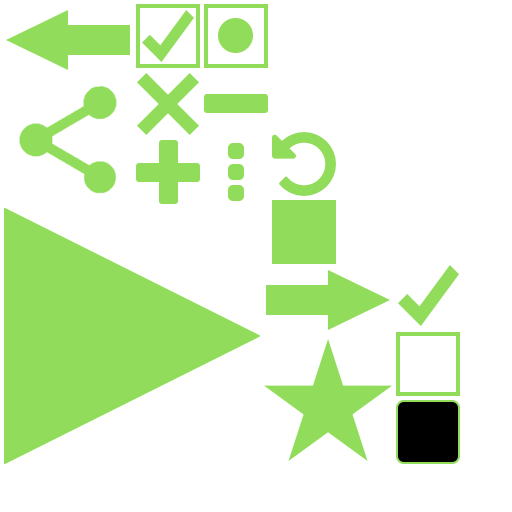
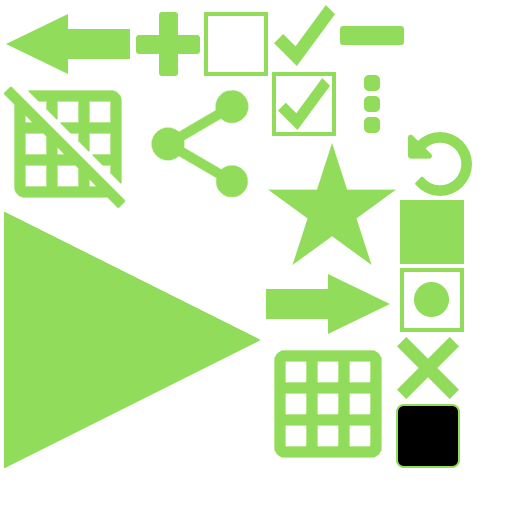
EditorScreen now also uses a hud stage. Added show grid button to EditorScreen and removed the setting from the settings screen.

diff --git a/core/src/com/mare5x/chargehockey/EditorScreen.java b/core/src/com/mare5x/chargehockey/EditorScreen.java
@@ -28,13 +28,15 @@ class EditorScreen implements Screen {
 
     private final InputMultiplexer multiplexer;
 
-    private final Stage edit_stage, button_stage;
+    private final Stage edit_stage, hud_stage;
     private final OrthographicCamera camera;  // camera of edit_stage
     private final EditCameraController camera_controller;
 
     private final LevelFrameBuffer fbo;
 
     private Level level;
+
+    private boolean show_grid = true;
 
     private final GridItemSelectorButton grid_item_button;
     private final Button puck_button;
@@ -75,7 +77,7 @@ class EditorScreen implements Screen {
             edit_stage.addActor(puck);
         }
 
-        button_stage = new Stage(new StretchViewport(Gdx.graphics.getWidth(), Gdx.graphics.getHeight() * 0.2f), game.batch);
+        hud_stage = new Stage(new StretchViewport(Gdx.graphics.getWidth(), Gdx.graphics.getHeight()), game.batch);
 
         Button menu_button = new Button(game.skin, "menu");
         menu_button.addListener(new ClickListener() {
@@ -96,20 +98,40 @@ class EditorScreen implements Screen {
         });
         grid_item_button.pad(10);
 
+        final Button show_grid_button = new Button(game.skin, "grid");
+        show_grid_button.addListener(new ClickListener() {
+            @Override
+            public void clicked(InputEvent event, float x, float y) {
+                show_grid = show_grid_button.isChecked();
+                fbo.set_draw_grid_lines(show_grid);
+                fbo.set_grid_line_spacing(CameraController.get_grid_line_spacing(camera.zoom));
+                fbo.update(game.batch);
+            }
+        });
+        show_grid = LevelFrameBuffer.get_grid_lines_setting();
+        show_grid_button.setChecked(show_grid);
+        show_grid_button.pad(10);
+
         puck_button = new Button();
         TextureRegionDrawable puck_drawable_on = new TextureRegionDrawable(game.sprites.findRegion("puck"));
         Drawable puck_drawable_off = puck_drawable_on.tint(game.skin.getColor("grey"));
         puck_button.setStyle(new Button.ButtonStyle(puck_drawable_off, puck_drawable_off, puck_drawable_on));
         puck_button.pad(10);
 
+        Table hud_table = new Table();
+        hud_table.setFillParent(true);
+
         Table button_table = new Table();
-        button_table.setFillParent(true);
         button_table.setBackground(game.skin.getDrawable("pixels/px_black"));
         button_table.add(grid_item_button).pad(15).size(Value.percentHeight(0.6f, button_table)).uniform();
         button_table.add(puck_button).pad(15).fill().uniform();
-        button_table.add(menu_button).pad(15).size(Value.percentHeight(0.6f, button_table)).expandX().right().uniform();
+        button_table.add(show_grid_button).pad(15).fill().uniform();
 
-        button_stage.addActor(button_table);
+        hud_table.add(menu_button).pad(15).expandX().right().size(Value.percentWidth(0.15f, hud_table)).row();
+        hud_table.add().expand().fill().row();
+        hud_table.add(button_table).height(Value.percentHeight(0.2f, hud_table)).expandX().fill();
+
+        hud_stage.addActor(hud_table);
 
         camera_controller = new EditCameraController(camera);
         InputAdapter back_key_processor = new InputAdapter() {  // same as menu_button
@@ -121,7 +143,7 @@ class EditorScreen implements Screen {
                 return true;
             }
         };
-        multiplexer = new InputMultiplexer(edit_stage, button_stage, new GestureDetector(camera_controller), back_key_processor);
+        multiplexer = new InputMultiplexer(edit_stage, hud_stage, new GestureDetector(camera_controller), back_key_processor);
     }
 
     @Override
@@ -148,16 +170,16 @@ class EditorScreen implements Screen {
         edit_stage.act();
         edit_stage.draw();
 
-        button_stage.getViewport().apply();
-        button_stage.act();
-        button_stage.draw();
+        hud_stage.getViewport().apply();
+        hud_stage.act();
+        hud_stage.draw();
     }
 
     @Override
     public void resize(int width, int height) {
         edit_stage.getViewport().setScreenBounds(0, (int) (height * 0.2f), width, (int) (height * 0.8f));
 
-        button_stage.getViewport().setScreenBounds(0, 0, width, (int) (height * 0.2f));
+        hud_stage.getViewport().setScreenBounds(0, 0, width, height);
 
         fbo.update(game.batch);
         Gdx.graphics.requestRendering();
@@ -166,6 +188,7 @@ class EditorScreen implements Screen {
     @Override
     public void pause() {
         level.save_level(puck_actors);
+        SettingsFile.set_setting(SETTINGS_KEY.GRID_LINES, show_grid);
     }
 
     @Override
@@ -177,6 +200,7 @@ class EditorScreen implements Screen {
     public void hide() {
 //        level.save_grid();
         level.save_level(puck_actors);
+        SettingsFile.set_setting(SETTINGS_KEY.GRID_LINES, show_grid);
         dispose();
     }
 
@@ -184,7 +208,7 @@ class EditorScreen implements Screen {
     public void dispose() {
         fbo.dispose();
         edit_stage.dispose();
-        button_stage.dispose();
+        hud_stage.dispose();
     }
 
     private class EditCameraController extends CameraController {

diff --git a/core/src/com/mare5x/chargehockey/SettingsScreen.java b/core/src/com/mare5x/chargehockey/SettingsScreen.java
@@ -29,7 +29,7 @@ class SettingsScreen implements Screen {
 
     private final SettingsFile settings_file;
 
-    private final SettingCheckBox acceleration_checkbox, velocity_checkbox, trace_path_checkbox, grid_checkbox;
+    private final SettingCheckBox acceleration_checkbox, velocity_checkbox, trace_path_checkbox;
     private final Slider game_speed_slider;
 
     SettingsScreen(final ChargeHockeyGame game, final Screen parent_screen) {
@@ -62,7 +62,6 @@ class SettingsScreen implements Screen {
         velocity_checkbox = new SettingCheckBox(game, "SHOW VELOCITY VECTOR", SETTINGS_KEY.SHOW_VELOCITY_VECTOR);
         acceleration_checkbox = new SettingCheckBox(game, "SHOW ACCELERATION VECTOR", SETTINGS_KEY.SHOW_ACCELERATION_VECTOR);
         trace_path_checkbox = new SettingCheckBox(game, "TRACE PATH?", SETTINGS_KEY.TRACE_PATH);
-        grid_checkbox = new SettingCheckBox(game, "SHOW GRID LINES?", SETTINGS_KEY.GRID_LINES);
 
         Table table = new Table();
         table.setFillParent(true);
@@ -79,7 +78,6 @@ class SettingsScreen implements Screen {
         velocity_checkbox.add_to_table(table);
         acceleration_checkbox.add_to_table(table);
         trace_path_checkbox.add_to_table(table);
-        grid_checkbox.add_to_table(table);
 
         table.add().colspan(2).expand();
 
@@ -103,7 +101,6 @@ class SettingsScreen implements Screen {
         settings_file.put(SETTINGS_KEY.SHOW_VELOCITY_VECTOR, velocity_checkbox.is_checked());
         settings_file.put(SETTINGS_KEY.SHOW_ACCELERATION_VECTOR, acceleration_checkbox.is_checked());
         settings_file.put(SETTINGS_KEY.TRACE_PATH, trace_path_checkbox.is_checked());
-        settings_file.put(SETTINGS_KEY.GRID_LINES, grid_checkbox.is_checked());
         settings_file.save();
     }
 

diff --git a/core/src/com/mare5x/chargehockey/SettingsFile.java b/core/src/com/mare5x/chargehockey/SettingsFile.java
@@ -57,6 +57,22 @@ class SettingsFile {
         prefs.flush();
     }
 
+    /** Convenience method to set a single setting and apply the changes. */
+    static void set_setting(SETTINGS_KEY key, boolean val){
+        SettingsFile settings = new SettingsFile();
+        settings.put(key, val);
+        settings.save();
+        apply_global_settings(settings);
+    }
+
+    /** Convenience method to set a single setting and apply the changes. */
+    static void set_setting(SETTINGS_KEY key, float val){
+        SettingsFile settings = new SettingsFile();
+        settings.put(key, val);
+        settings.save();
+        apply_global_settings(settings);
+    }
+
     /** Applies static/global-level settings. */
     static void apply_global_settings() {
         SettingsFile settings = new SettingsFile();

diff --git a/core/src/com/mare5x/chargehockey/GameScreen.java b/core/src/com/mare5x/chargehockey/GameScreen.java
@@ -124,8 +124,8 @@ class GameScreen implements Screen {
         button_table.add(play_button).size(Value.percentHeight(0.5f, button_table)).uniform().pad(15);
         button_table.add(charge_pos_button).pad(15).uniform().fill();
         button_table.add(charge_neg_button).pad(15).uniform().fill();
-        button_table.add(menu_button).pad(15).uniform().fill();
 
+        hud_table.add(menu_button).pad(15).expandX().right().size(Value.percentWidth(0.15f, hud_table)).row();
         hud_table.add().expand().fill().row();
         hud_table.add(button_table).height(Value.percentHeight(0.2f, hud_table)).expandX().fill();
 
